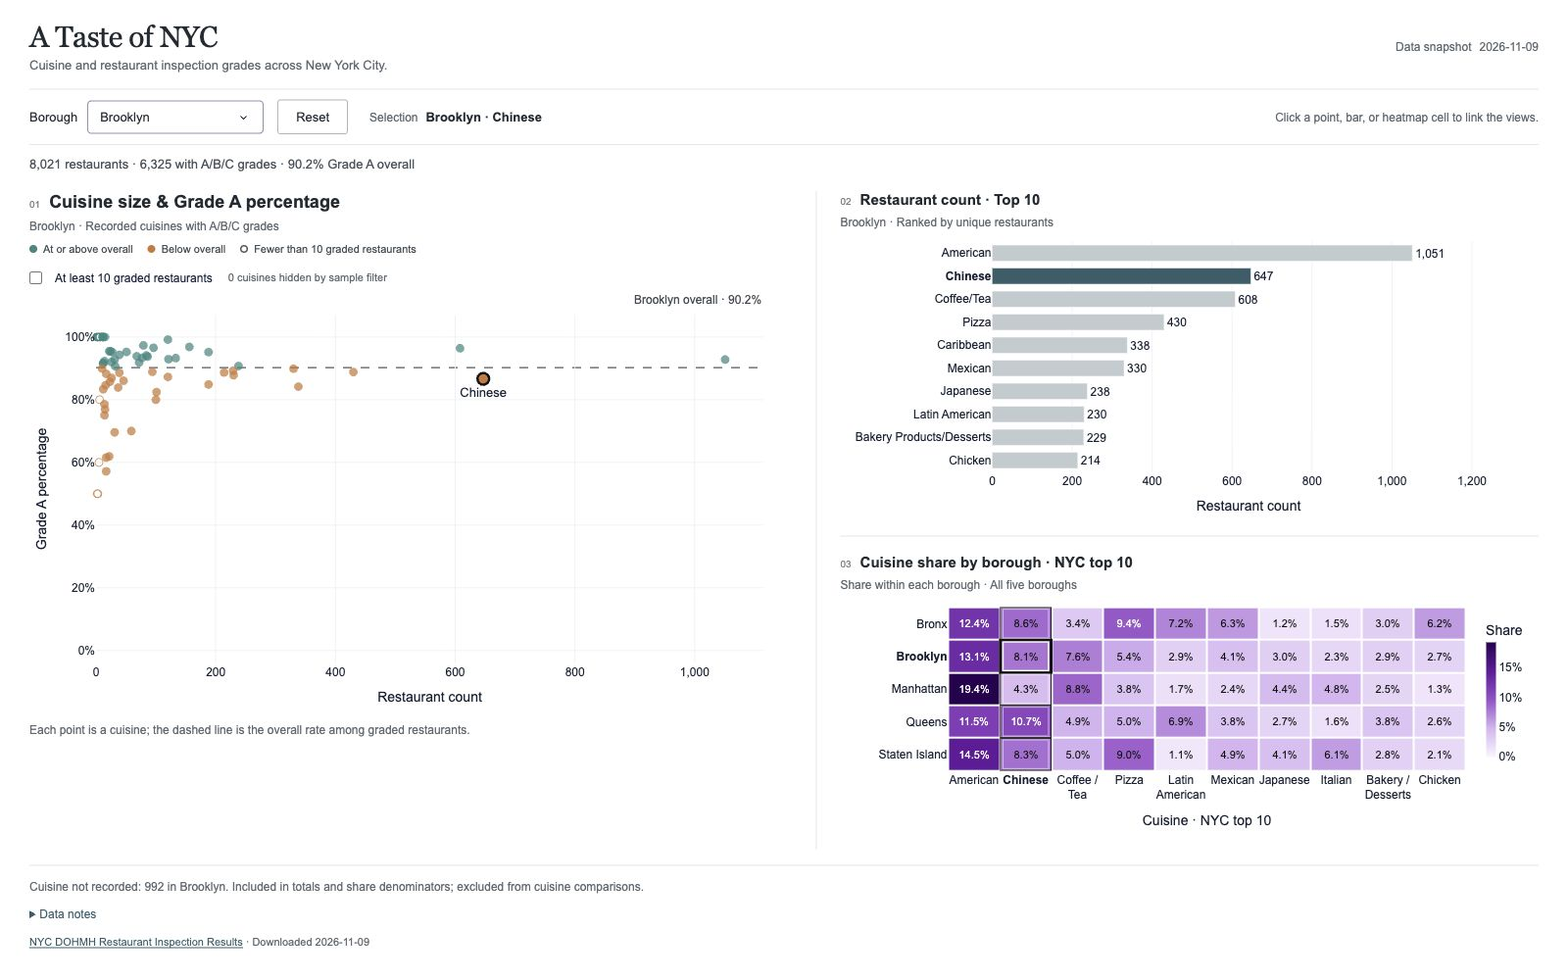
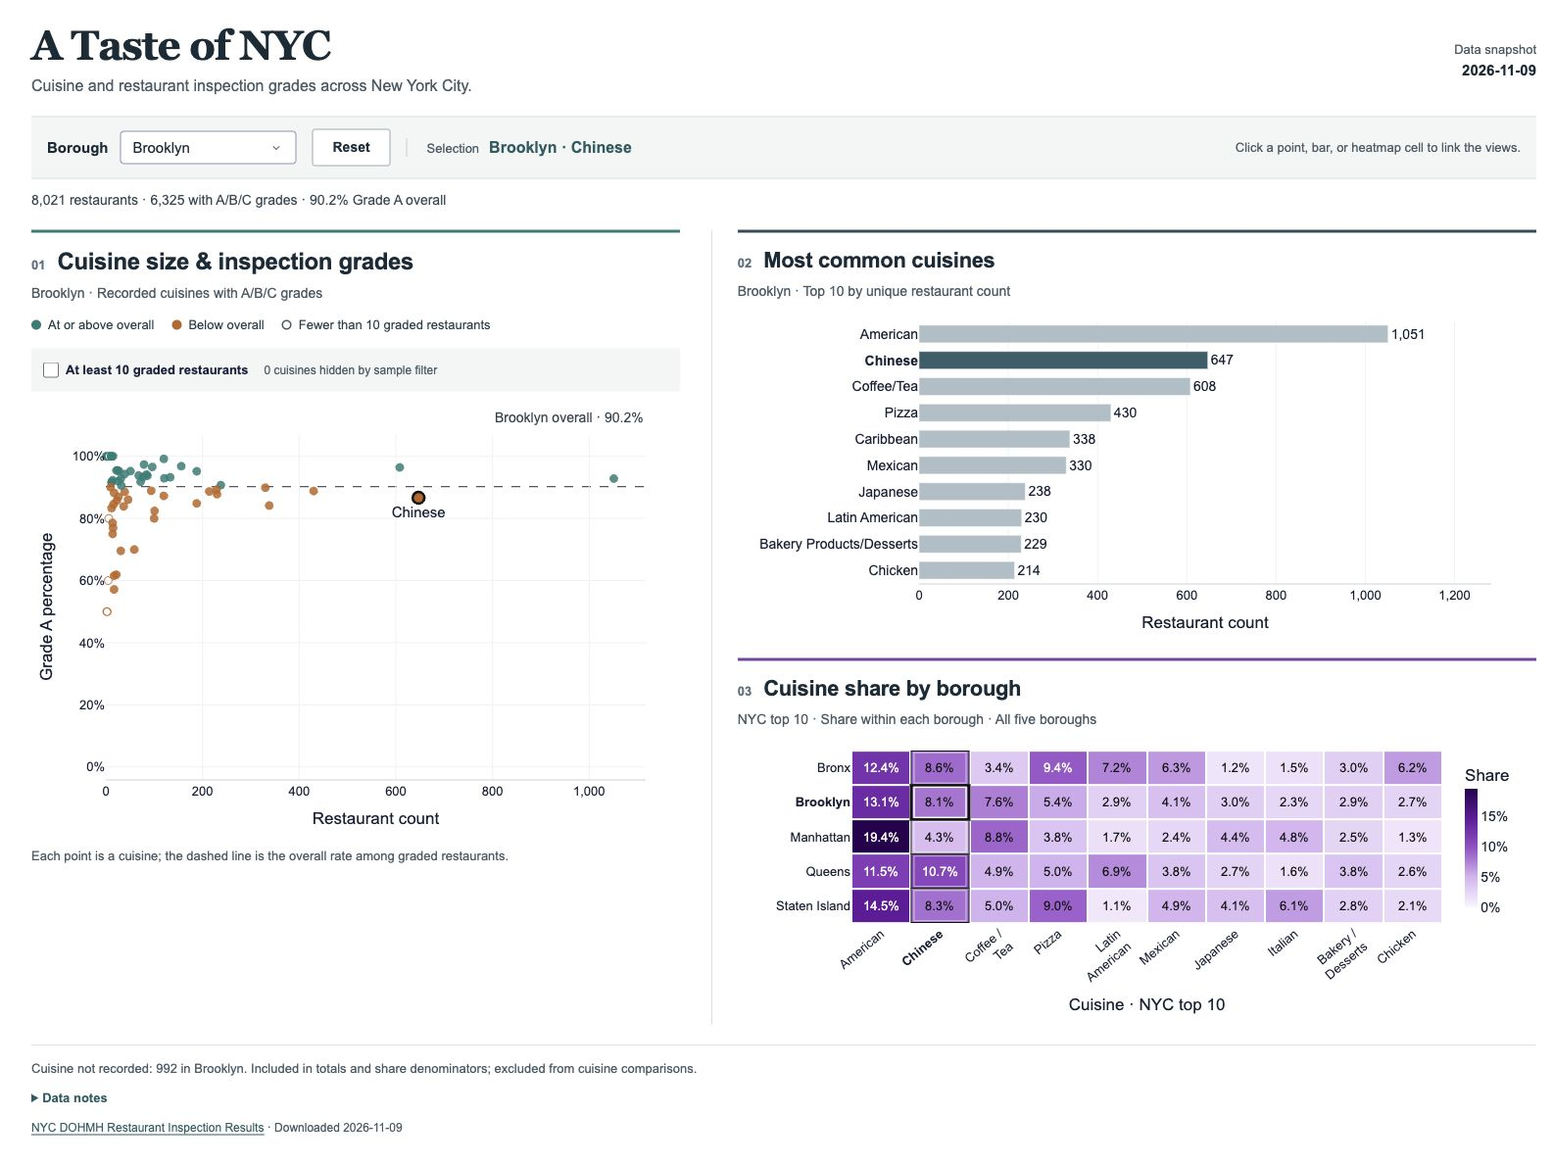
Improve dashboard typography and chart readability

diff --git a/a-taste-of-nyc/assets/style.css b/a-taste-of-nyc/assets/style.css
@@ -1,48 +1,50 @@
-:root { color-scheme: light; --ink: #222a31; --muted: #606970; --line: #e3e6e8; }
+:root { color-scheme: light; --ink: #182b36; --muted: #4b5c66; --line: #d9e0e3; --accent: #255c60; }
 * { box-sizing: border-box; }
 body { margin: 0; background: #fff; color: var(--ink); font-family: Arial, Helvetica, sans-serif; }
-.page { max-width: 1760px; margin: auto; padding: 20px 30px 16px; }
-header { display: flex; align-items: center; justify-content: space-between; gap: 20px; margin-bottom: 16px; }
-h1 { font-family: Georgia, serif; font-size: 30px; font-weight: 500; letter-spacing: -.6px; margin: 0 0 5px; }
-.intro { color: var(--muted); font-size: 13px; margin: 0; }
-.snapshot { display: flex; gap: 8px; font-size: 12px; color: var(--muted); }
-.snapshot strong { font-weight: 400; }
-.controls { display: flex; align-items: center; gap: 14px; border-block: 1px solid var(--line); padding: 10px 0; }
-.filter { display: flex; align-items: center; gap: 10px; font-size: 13px; }
-#borough { width: 180px; }
-button { background: #fff; color: var(--ink); border: 1px solid #aeb7bd; border-radius: 3px; padding: 9px 18px; font-size: 13px; cursor: pointer; }
-button:hover { background: #f0f3f3; }
-button:focus-visible, a:focus-visible, summary:focus-visible { outline: 2px solid #355e6a; outline-offset: 3px; }
-.selection { display: flex; align-items: baseline; gap: 8px; margin-left: 8px; font-size: 13px; }
-.selection-label { color: var(--muted); font-size: 12px; }
-.hint { margin: 0 0 0 auto; font-size: 12px; color: var(--muted); }
-.metrics { padding: 12px 0 20px; font-size: 13px; color: #49535b; }
-.chart-grid { display: grid; grid-template-columns: 1.05fr 1fr; gap: 28px; align-items: stretch; }
-.right-column { display: grid; gap: 20px; min-width: 0; align-content: start; border-left: 1px solid var(--line); padding-left: 24px; }
-.panel { background: white; padding: 0; min-width: 0; }
-.right-column .panel + .panel { border-top: 1px solid var(--line); padding-top: 18px; }
-.chart-title { display: flex; align-items: baseline; gap: 9px; }
-.rq { color: #7a8389; font-size: 10px; flex-shrink: 0; }
-h2 { margin: 0; font-size: 15px; font-weight: 600; }
-.scatter-panel h2 { font-size: 18px; }
-.chart-subtitle { font-size: 12px; color: var(--muted); margin: 7px 0 8px; }
-.plot-key { display: flex; flex-wrap: wrap; gap: 8px 15px; margin: 10px 0 0; font-size: 11px; color: #454f56; }
-.plot-key span { display: inline-flex; align-items: center; gap: 6px; }
-.key-dot { display: inline-block; width: 8px; height: 8px; border-radius: 50%; flex-shrink: 0; }
-.key-dot.above { background: #39877f; }
-.key-dot.below { background: #c87938; }
-.key-dot.hollow { background: white; border: 1.5px solid #555; }
-.sample-controls { display: flex; flex-wrap: wrap; align-items: center; gap: 6px 16px; margin: 12px 0 2px; font-size: 12px; color: #454f56; }
-.sample-controls label { display: inline-flex; align-items: center; gap: 5px; cursor: pointer; }
-.sample-controls input { accent-color: #355e6a; }
-#sample-status { color: var(--muted); font-size: 11px; }
-.figure-note { font-size: 12px; color: var(--muted); line-height: 1.5; margin: 4px 0 0; }
-.missing-note { border-top: 1px solid var(--line); margin: 16px 0 0; padding-top: 12px; color: var(--muted); font-size: 12px; line-height: 1.5; }
-.data-notes { margin-top: 10px; font-size: 12px; color: var(--muted); line-height: 1.6; max-width: 1100px; }
-.data-notes summary { cursor: pointer; color: #355e6a; width: fit-content; }
+.page { max-width: 1840px; margin: auto; padding: 24px 32px 20px; }
+header { display: flex; align-items: center; justify-content: space-between; gap: 20px; margin-bottom: 20px; }
+h1 { font-family: Georgia, serif; font-size: 42px; font-weight: 600; letter-spacing: -1px; margin: 0 0 6px; line-height: 1.08; }
+.intro { color: var(--muted); font-size: 16px; margin: 0; line-height: 1.45; }
+.snapshot { display: flex; flex-direction: column; gap: 5px; font-size: 13px; color: var(--muted); text-align: right; }
+.snapshot strong { color: var(--ink); font-size: 15px; font-weight: 600; }
+.controls { display: flex; align-items: center; flex-wrap: wrap; gap: 16px; border-block: 1px solid var(--line); padding: 12px 16px; background: #f3f6f6; }
+.filter { display: flex; align-items: center; gap: 12px; font-size: 15px; font-weight: 600; }
+#borough { width: 180px; font-size: 15px; font-weight: 400; }
+button { background: #fff; color: var(--ink); border: 1px solid #9aaab2; border-radius: 3px; padding: 10px 20px; font-size: 14px; font-weight: 600; cursor: pointer; }
+button:hover { background: #e8efef; }
+button:focus-visible, a:focus-visible, summary:focus-visible { outline: 2px solid var(--accent); outline-offset: 3px; }
+.selection { display: flex; align-items: baseline; gap: 10px; border-left: 1px solid #c4ced2; padding-left: 20px; font-size: 16px; }
+.selection-label { color: var(--muted); font-size: 13px; }
+.selection strong { color: var(--accent); }
+.hint { margin: 0 0 0 auto; font-size: 13px; color: var(--muted); }
+.metrics { padding: 14px 0 22px; font-size: 14px; font-weight: 500; color: #344852; }
+.chart-grid { display: grid; grid-template-columns: minmax(0, .88fr) minmax(0, 1.12fr); gap: 32px; align-items: start; }
+.right-column { display: grid; gap: 22px; min-width: 0; border-left: 1px solid var(--line); padding-left: 26px; }
+.panel { background: white; padding: 14px 0 0; min-width: 0; border-top: 3px solid #314d5a; }
+.scatter-panel { border-top-color: #237d75; }
+.right-column .panel + .panel { border-top-color: #7843a2; }
+.chart-title { display: flex; align-items: baseline; gap: 12px; }
+.rq { color: #5c707d; font-size: 13px; font-weight: 700; flex-shrink: 0; }
+h2 { margin: 0; font-size: 22px; line-height: 1.25; font-weight: 700; letter-spacing: -.35px; }
+.scatter-panel h2 { font-size: 24px; }
+.chart-subtitle { font-size: 14px; color: var(--muted); font-weight: 500; margin: 8px 0 12px; line-height: 1.45; }
+.plot-key { display: flex; flex-wrap: wrap; gap: 9px 18px; margin: 14px 0 0; font-size: 13px; color: #263e49; }
+.plot-key span { display: inline-flex; align-items: center; gap: 7px; }
+.key-dot { display: inline-block; width: 10px; height: 10px; border-radius: 50%; flex-shrink: 0; }
+.key-dot.above { background: #237d75; }
+.key-dot.below { background: #bc641f; }
+.key-dot.hollow { background: white; border: 1.5px solid #4a5963; }
+.sample-controls { display: flex; flex-wrap: wrap; align-items: center; gap: 7px 16px; margin: 16px 0 8px; padding: 10px 12px; background: #f3f6f6; font-size: 13px; color: #263e49; }
+.sample-controls label { display: inline-flex; align-items: center; gap: 7px; font-weight: 600; cursor: pointer; }
+.sample-controls input { accent-color: var(--accent); width: 16px; height: 16px; margin: 0; }
+#sample-status { color: var(--muted); font-size: 12px; }
+.figure-note { font-size: 13px; color: var(--muted); line-height: 1.55; margin: 6px 0 0; max-width: 560px; }
+.missing-note { border-top: 1px solid var(--line); margin: 20px 0 0; padding-top: 14px; color: var(--muted); font-size: 13px; line-height: 1.5; }
+.data-notes { margin-top: 10px; font-size: 13px; color: var(--muted); line-height: 1.6; max-width: 1100px; }
+.data-notes summary { cursor: pointer; color: var(--accent); font-weight: 600; width: fit-content; }
 .data-notes p { margin: 8px 0; }
-footer { margin-top: 12px; color: var(--muted); font-size: 11px; }
-a { color: #355e6a; text-underline-offset: 2px; }
-@media (max-width: 1150px) { .page { padding: 20px; } .hint { display: none; } .chart-grid { gap: 20px; } .right-column { padding-left: 18px; } }
-@media (max-width: 1000px) { .chart-grid { grid-template-columns: 1fr; } .right-column { border-left: 0; padding-left: 0; } .controls { flex-wrap: wrap; } .scatter-plot { height: 440px !important; } .scatter-panel { padding-bottom: 12px; } }
-@media (max-width: 550px) { .page { padding: 16px 12px; } h1 { font-size: 28px; } .snapshot { display: none; } .selection { margin-left: 0; width: 100%; } .heatmap-plot { min-width: 780px; } .panel:has(.heatmap-plot) { overflow-x: auto; } .metrics { line-height: 1.6; } }
+footer { margin-top: 12px; color: var(--muted); font-size: 12px; }
+a { color: var(--accent); text-underline-offset: 3px; }
+@media (max-width: 1400px) { .page { padding: 22px; } .hint { display: none; } .chart-grid { gap: 24px; } .right-column { padding-left: 20px; } .heatmap-plot { min-width: 700px; } .panel:has(.heatmap-plot) { overflow-x: auto; } }
+@media (max-width: 1150px) { .chart-grid { grid-template-columns: 1fr; } .right-column { border-left: 0; padding-left: 0; gap: 26px; } .scatter-plot { height: 440px !important; } .scatter-panel { padding-bottom: 12px; } .heatmap-plot { min-width: 740px; } }
+@media (max-width: 550px) { .page { padding: 18px 14px; } h1 { font-size: 36px; } .intro { font-size: 15px; } .snapshot { display: none; } header { margin-bottom: 16px; } .controls { padding: 12px; gap: 12px; } .selection { padding: 8px 0 0; border-left: 0; border-top: 1px solid var(--line); width: 100%; flex-wrap: wrap; } .filter { gap: 8px; } #borough { width: 145px; } button { padding: 9px 13px; } .metrics { line-height: 1.6; } h2, .scatter-panel h2 { font-size: 21px; } .panel:has(.heatmap-plot) .chart-subtitle::after { content: "Scroll horizontally to compare all cuisines →"; display: block; margin-top: 6px; color: var(--accent); font-weight: 600; } }

diff --git a/a-taste-of-nyc/app.py b/a-taste-of-nyc/app.py
@@ -14,9 +14,9 @@ from dash import Dash, Input, Output, State, ctx, dcc, html
 from prepare_data import BOROUGHS, SOURCE_URL
 
 ROOT = Path(__file__).resolve().parent
-ABOVE = "#39877f"
-BELOW = "#c87938"
-BAR_BACKGROUND = "#c3cbd0"
+ABOVE = "#237d75"
+BELOW = "#bc641f"
+BAR_BACKGROUND = "#aebfc6"
 SELECTED = "#355e6a"
 MISSING_CUISINE = "Unknown"
 HEAT_COLORS = [[0, "#faf5ff"], [0.25, "#d7b5f1"], [0.5, "#9950c9"], [0.75, "#63169b"], [1, "#29004f"]]
@@ -46,12 +46,14 @@ def cuisine_summary(frame: pd.DataFrame) -> pd.DataFrame:
 
 def base_figure():
     figure = go.Figure()
-    figure.update_layout(template="plotly_white", font={"family": "Arial, sans-serif", "size": 12, "color": INK},
+    figure.update_layout(template="plotly_white", font={"family": "Arial, sans-serif", "size": 14, "color": INK},
                          paper_bgcolor="white", plot_bgcolor="white", showlegend=False,
                          margin={"l": 60, "r": 25, "t": 20, "b": 55},
-                         hoverlabel={"bgcolor": "white", "font_size": 13}, dragmode=False)
+                         hoverlabel={"bgcolor": "white", "font_size": 15}, dragmode=False)
     figure.update_xaxes(gridcolor="#f0f1f2", zeroline=False, fixedrange=True)
     figure.update_yaxes(gridcolor="#f0f1f2", zeroline=False, fixedrange=True)
+    figure.update_xaxes(title_font={"size": 15}, tickfont={"size": 13}, showline=True, linecolor="#cbd2d7")
+    figure.update_yaxes(title_font={"size": 15}, tickfont={"size": 13})
     return figure
 
 
@@ -81,10 +83,10 @@ def scatter_figure(summary, selected, scope="All NYC", min_graded=1):
             x=rows.restaurants.tolist(), y=rows.grade_a_pct.tolist(),
             mode="markers+text" if active else "markers",
             text=[escape(c) for c in rows.cuisine] if active else None,
-            textposition="bottom center", textfont={"color": INK, "size": 13}, cliponaxis=False,
+            textposition="bottom center", textfont={"color": INK, "size": 15}, cliponaxis=False,
             customdata=custom,
             marker={"size": 12 if active else 8, "color": colors,
-                    "opacity": 1 if active else 0.72,
+                    "opacity": 1 if active else 0.85,
                     "symbol": ["circle-open" if n < 10 else "circle" for n in rows.rated],
                     "line": {"width": 2.5 if active else 1, "color": "#111111" if active else colors}},
             hovertemplate="<b>%{customdata[0]}</b><br>Borough: %{customdata[5]}<br>Restaurants: %{customdata[1]:,}<br>Rated (A/B/C): %{customdata[2]:,}<br>Grade A restaurants: %{customdata[3]:,}<br>Grade A: %{y:.1%}<br>%{customdata[4]}<extra></extra>"))
@@ -98,10 +100,10 @@ def scatter_figure(summary, selected, scope="All NYC", min_graded=1):
     # Keep the benchmark label outside the data region so it cannot cover a point.
     fig.add_annotation(x=1, xref="paper", y=1.02, yref="paper", text=f"{escape(scope)} overall · {benchmark:.1%}",
                        showarrow=False, xanchor="right", yanchor="bottom",
-                       font={"size": 12, "color": "#454b52"})
+                       font={"size": 14, "color": "#33414c"})
     fig.update_xaxes(title="Restaurant count", rangemode="tozero", tickformat=",d", type="linear")
     fig.update_yaxes(title="Grade A percentage", range=[-0.04, 1.07], tickformat=".0%", dtick=0.2)
-    fig.update_layout(margin={"l": 65, "r": 25, "t": 25, "b": 55})
+    fig.update_layout(margin={"l": 76, "r": 28, "t": 36, "b": 62})
     return fig
 
 
@@ -121,13 +123,13 @@ def bar_figure(summary, selected, scope="All NYC"):
         marker_color=[SELECTED if c == selected else BAR_BACKGROUND for c in top.cuisine],
         customdata=[[c, int(n), float(n / total), scope, int(rank)] for c, n, rank in zip(top.cuisine, top.restaurants, top["rank"])],
         text=[f"{n:,}" for n in top.restaurants],
-        textposition="outside", cliponaxis=False,
+        textposition="outside", textfont={"size": 14}, cliponaxis=False,
         hovertemplate="<b>%{customdata[0]}</b><br>Borough: %{customdata[3]}<br>Restaurants: %{x:,}<br>Share of all restaurants: %{customdata[2]:.1%}<br>Rank: %{customdata[4]}<extra></extra>"))
     fig.update_yaxes(title=None, autorange="reversed", showgrid=False, automargin=True,
                      tickvals=top.cuisine.tolist(),
-                     ticktext=[(f"<b>{escape(c)}</b><br>Selected cuisine · Rank {rank}" if extra else f"<b>{escape(c)}</b>") if c == selected else escape(c) for c, rank in zip(top.cuisine, top["rank"])])
+                     ticktext=[(f"<b>{escape(c)}</b><br>Selected cuisine · Rank {rank}" if extra else f"<b>{escape(c)}</b>") if c == selected else escape(c) for c, rank in zip(top.cuisine, top["rank"])], tickfont={"size": 14})
     fig.update_xaxes(title="Restaurant count", range=[0, float(top.restaurants.max()) * 1.22], tickformat=",d")
-    fig.update_layout(margin={"l": 155, "r": 35, "t": 5, "b": 45}, bargap=0.3)
+    fig.update_layout(margin={"l": 185, "r": 38, "t": 8, "b": 52}, bargap=0.33)
     return fig, extra
 
 
@@ -167,14 +169,14 @@ def heatmap_figure(frame, borough="All NYC", selected=None):
         zmax=maximum,
         colorscale=HEAT_COLORS,
         xgap=2, ygap=2, hoverongaps=False,
-        colorbar={"title": {"text": "Share"}, "tickformat": ".0%", "thickness": 10, "len": 0.94},
+        colorbar={"title": {"text": "Share"}, "tickformat": ".0%", "thickness": 13, "len": 0.94},
         hovertemplate="<b>%{customdata[0]} · %{customdata[1]}</b><br>Restaurants: %{customdata[2]:,}<br>Share of borough: %{z:.1%}<br>All borough restaurants: %{customdata[3]:,}<extra></extra>"))
     for i, boro in enumerate(BOROUGHS):
         for j, cuisine in enumerate(cuisines):
             value = z[i][j]
             fig.add_annotation(x=cuisine, y=boro, text=f"{value:.1%}" if value is not None else "—",
                                showarrow=False, captureevents=False,
-                               font={"size": 11, "color": heat_text_color(value / maximum) if value is not None else INK})
+                               font={"size": 13, "color": heat_text_color(value / maximum) if value is not None else INK})
     if selected in cuisines:
         x = cuisines.index(selected)
         # Every borough in the selected cuisine gets a thin outline.
@@ -188,11 +190,11 @@ def heatmap_figure(frame, borough="All NYC", selected=None):
     labels = {"Coffee/Tea": "Coffee /<br>Tea", "Juice, Smoothies, Fruit Salads": "Juice /<br>Smoothies", "Latin American": "Latin<br>American", "Bakery Products/Desserts": "Bakery /<br>Desserts"}
     ticks = [labels.get(c, "<br>".join(textwrap.wrap(c, 11))) for c in cuisines]
     ticks = [f"<b>{t}</b>" if c == selected else t for c, t in zip(cuisines, ticks)]
-    fig.update_xaxes(title="Cuisine · NYC top 10" + (" + selected" if len(cuisines) > 10 else ""), tickvals=cuisines, ticktext=ticks, tickangle=0, showgrid=False,
-                     tickfont={"size": 10 if len(cuisines) > 10 else 12})
+    fig.update_xaxes(title="Cuisine · NYC top 10" + (" + selected" if len(cuisines) > 10 else ""), tickvals=cuisines, ticktext=ticks, tickangle=-40, showgrid=False, showline=False,
+                     tickfont={"size": 13})
     fig.update_yaxes(title=None, autorange="reversed", showgrid=False, tickvals=BOROUGHS,
                      ticktext=[f"<b>{b}</b>" if b == borough else b for b in BOROUGHS])
-    fig.update_layout(margin={"l": 110, "r": 18, "t": 8, "b": 80})
+    fig.update_layout(margin={"l": 116, "r": 22, "t": 10, "b": 104})
     return fig, cuisines
 
 
@@ -239,7 +241,7 @@ def create_app(frame=None, metadata=None):
         html.Div(id="metrics", className="metrics"),
         html.Div([
             html.Section([
-                html.Div([html.Span("01", className="rq"), html.H2("Cuisine size & Grade A percentage")], className="chart-title"),
+                html.Div([html.Span("01", className="rq"), html.H2("Cuisine size & inspection grades")], className="chart-title"),
                 html.P(id="scatter-scope", className="chart-subtitle"),
                 html.Div([
                     html.Span([html.I(className="key-dot above"), "At or above overall"]),
@@ -250,19 +252,19 @@ def create_app(frame=None, metadata=None):
                     dcc.Checklist(id="sample-filter", options=[{"label": "At least 10 graded restaurants", "value": "ten"}], value=[]),
                     html.Span(id="sample-status", **{"aria-live": "polite"}),
                 ], className="sample-controls"),
-                dcc.Graph(id="scatter", config=CONFIG, responsive=True, style={"height": "435px"}, className="scatter-plot"),
+                dcc.Graph(id="scatter", config=CONFIG, responsive=True, style={"height": "450px"}, className="scatter-plot"),
                 html.P("Each point is a cuisine; the dashed line is the overall rate among graded restaurants.", className="figure-note"),
             ], className="panel scatter-panel"),
             html.Div([
                 html.Section([
                     html.Div([html.Span("02", className="rq"), html.H2(id="bar-title")], className="chart-title"),
                     html.P(id="bar-scope", className="chart-subtitle"),
-                    dcc.Graph(id="bar", config=CONFIG, responsive=True, style={"height": "285px"}, className="bar-plot"),
+                    dcc.Graph(id="bar", config=CONFIG, responsive=True, style={"height": "330px"}, className="bar-plot"),
                 ], className="panel"),
                 html.Section([
-                    html.Div([html.Span("03", className="rq"), html.H2("Cuisine share by borough · NYC top 10", id="heatmap-title")], className="chart-title"),
-                    html.P("Share within each borough · All five boroughs", className="chart-subtitle"),
-                    dcc.Graph(id="heatmap", figure=heatmap, config=CONFIG, responsive=True, style={"height": "255px"}, className="heatmap-plot"),
+                    html.Div([html.Span("03", className="rq"), html.H2("Cuisine share by borough", id="heatmap-title")], className="chart-title"),
+                    html.P("NYC top 10 · Share within each borough · All five boroughs", className="chart-subtitle"),
+                    dcc.Graph(id="heatmap", figure=heatmap, config=CONFIG, responsive=True, style={"height": "290px"}, className="heatmap-plot"),
                 ], className="panel"),
             ], className="right-column"),
         ], className="chart-grid"),
@@ -326,11 +328,11 @@ def create_app(frame=None, metadata=None):
         return (borough, selected, None, scatter_figure(summary, selected, borough, minimum), bar,
                 f"{borough} · {selected or 'All cuisines'}", metrics,
                 f"{borough} · Recorded cuisines with A/B/C grades",
-                f"{borough} · Ranked by unique restaurants",
-                "Restaurant count · Top 10" + (" + selected cuisine" if extra else ""), note,
+                f"{borough} · Top 10 by unique restaurant count",
+                "Most common cuisines" + (" · + selected" if extra else ""), note,
                 heatmap_figure(frame, borough, selected)[0], missing_note,
                 None, None, sample_filter, sample_status,
-                "Cuisine share by borough · NYC top 10" + (" + selected" if selected and selected not in heat_cuisines else ""))
+                "Cuisine share by borough" + (" · + selected" if selected and selected not in heat_cuisines else ""))
 
     return app
 

diff --git a/a-taste-of-nyc/check_browser.py b/a-taste-of-nyc/check_browser.py
@@ -12,7 +12,7 @@ ROOT = Path(__file__).resolve().parent
 def run():
     with sync_playwright() as p:
         browser = p.chromium.launch(channel="chrome", headless=True)
-        page = browser.new_page(viewport={"width": 1600, "height": 1000}, device_scale_factor=1)
+        page = browser.new_page(viewport={"width": 1600, "height": 1100}, device_scale_factor=1)
         errors = []
         page.on("pageerror", lambda error: errors.append(str(error)))
         page.goto("http://127.0.0.1:8050")

diff --git a/a-taste-of-nyc/README.md b/a-taste-of-nyc/README.md
@@ -93,6 +93,8 @@ The saved audit is [data/cuisine_missingness_audit.json](data/cuisine_missingnes
 
 These refinements retain Option B and the original chart types and axes. The added reference line and binary comparison colors strengthen RQ3. No logarithmic axis or arbitrary cuisine palette was introduced. Only the selected scatter point is labeled to limit clutter. Display numbers 01–03 express reading order; the original research-question mapping remains RQ3 / RQ1 / RQ2.
 
+The readability revision uses a 42 px desktop page title, 22–24 px chart titles, 14 px scope subtitles and 13–15 px chart labels. The right column receives more width, short chart titles are separated from scope subtitles, and heatmap labels use a consistent 40° angle instead of shrinking type. Dark text, stronger teal/orange marks and subtle section rules separate the three views without card borders. Data and selection behavior are unchanged.
+
 ## Interactions and demonstration
 
 1. Start at **All NYC · All cuisines**. Other cuisines always remain as comparison context when selecting one.
@@ -105,7 +107,7 @@ These refinements retain Option B and the original chart types and axes. The add
 
 The three chart click paths, the Italian rank-11 case, the appended Caribbean column, sample filtering, Reset and repeated selection were exercised in the running browser on November 9, 2026. The two screenshots were refreshed after these changes; screenshots supplement the interactive demonstration rather than proving it alone.
 
-Below 1000 px, chart panels stack vertically. On very narrow screens, the heatmap scrolls horizontally within its panel to preserve readable columns. Mouse/touch chart marks initiate selection; keyboard-only chart-mark navigation is not implemented. Borough selection, the sample checkbox and Reset are keyboard accessible.
+Below 1150 px, chart panels stack vertically. When the heatmap cannot fit readable columns, it scrolls horizontally within its panel; the narrow-screen subtitle explains this. Mouse/touch chart marks initiate selection; keyboard-only chart-mark navigation is not implemented. Borough selection, the sample checkbox and Reset are keyboard accessible.
 
 ## Rebuild or refresh data
 
